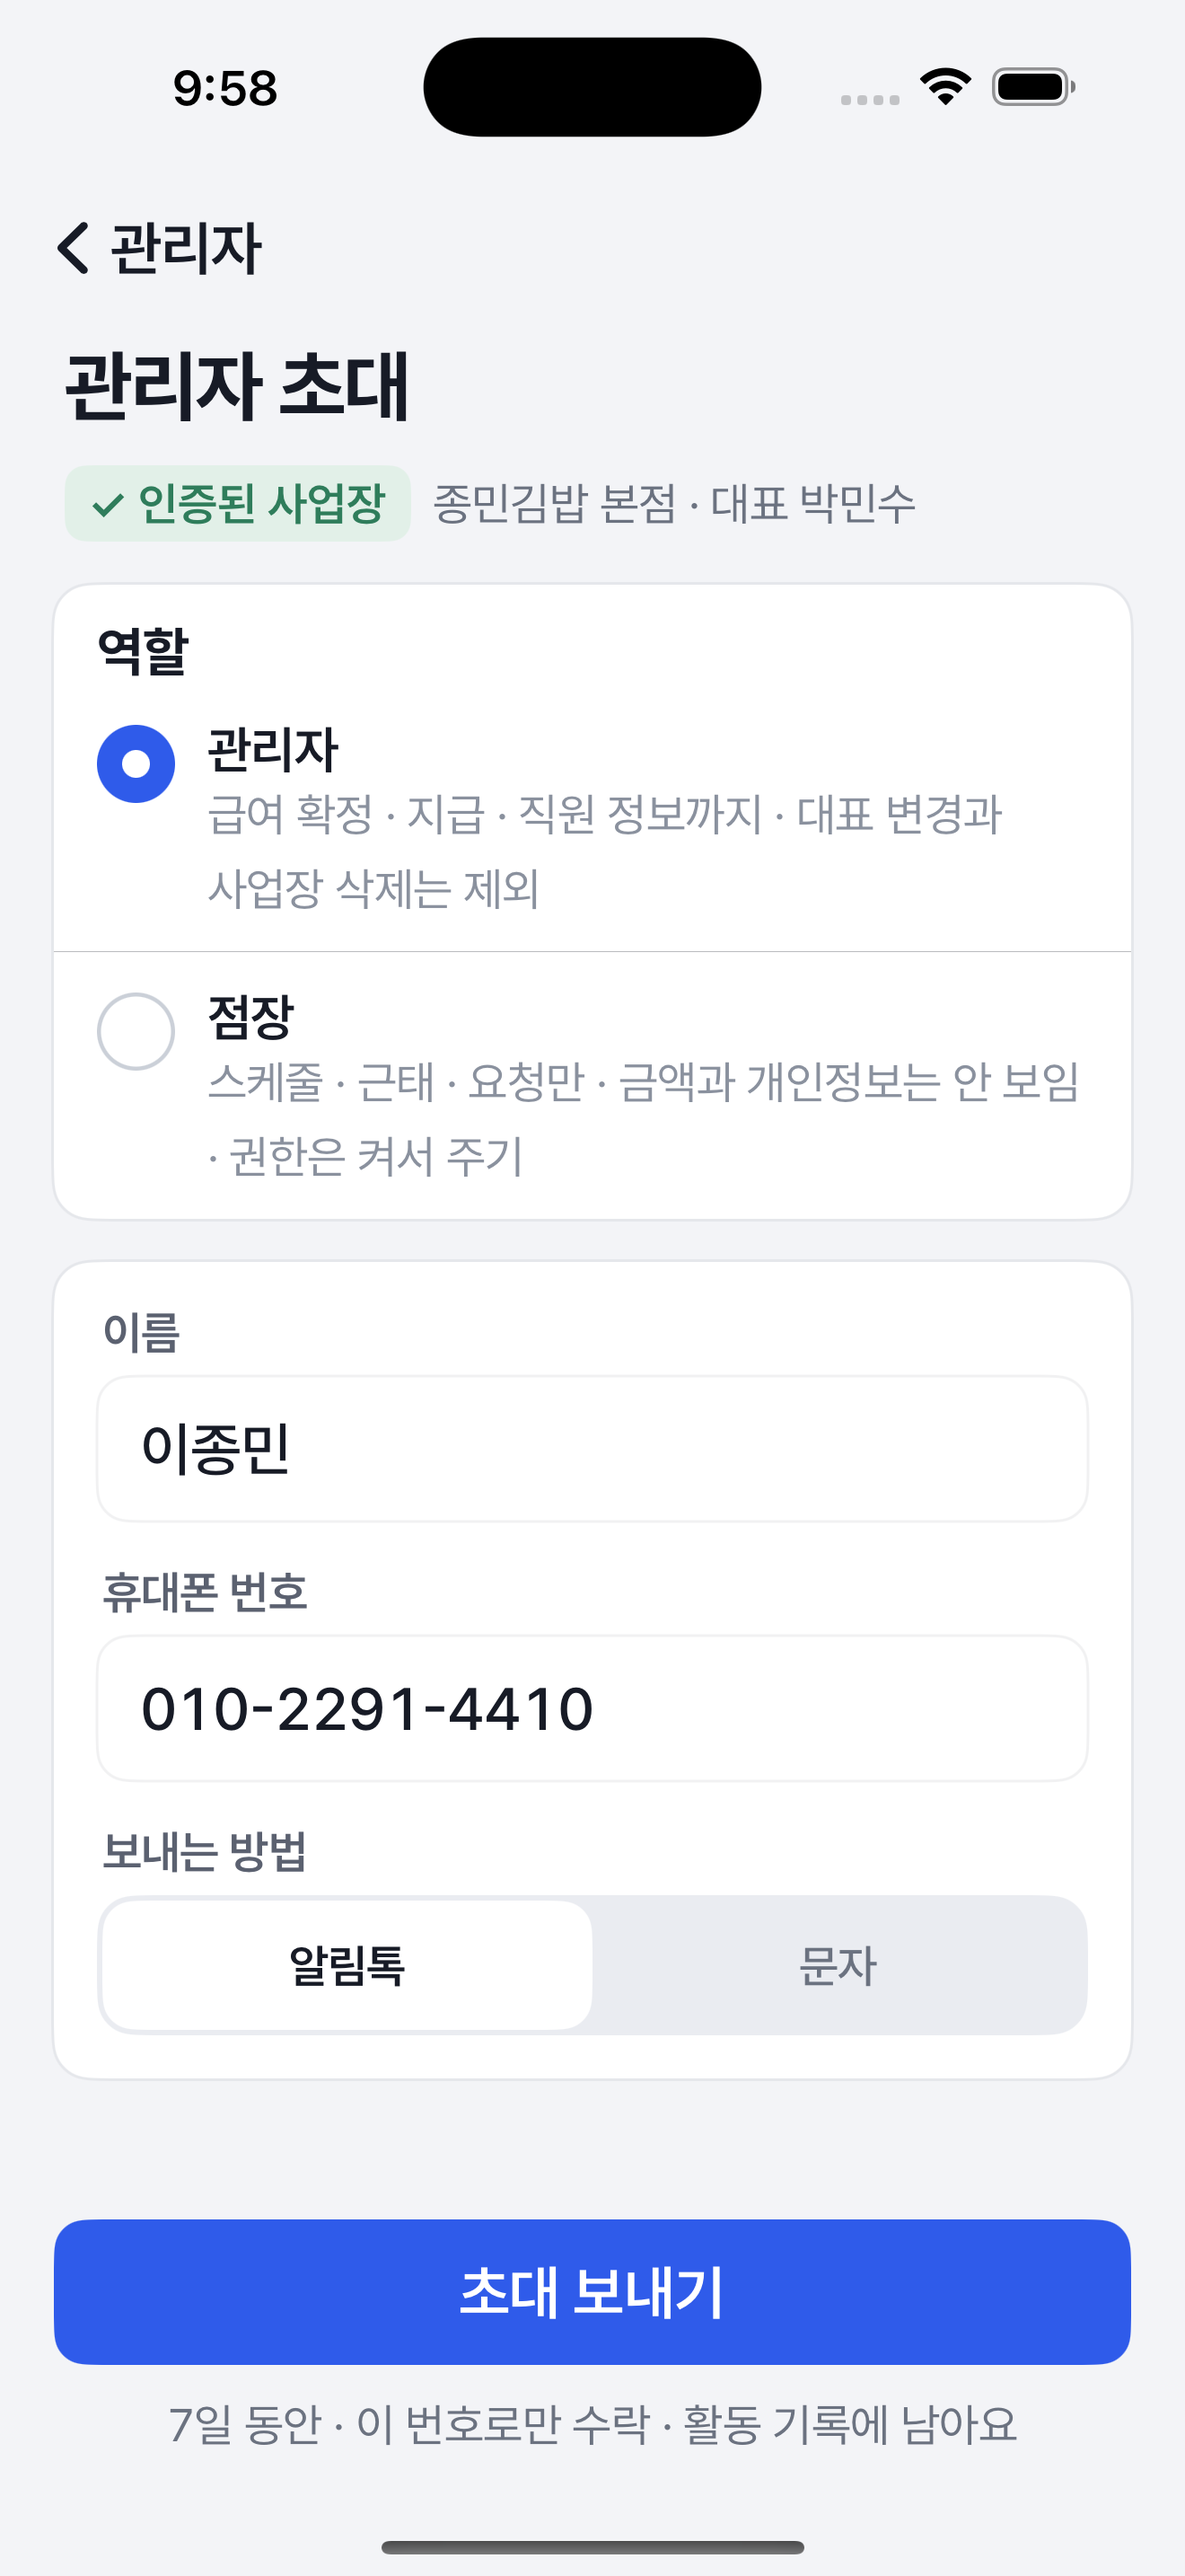
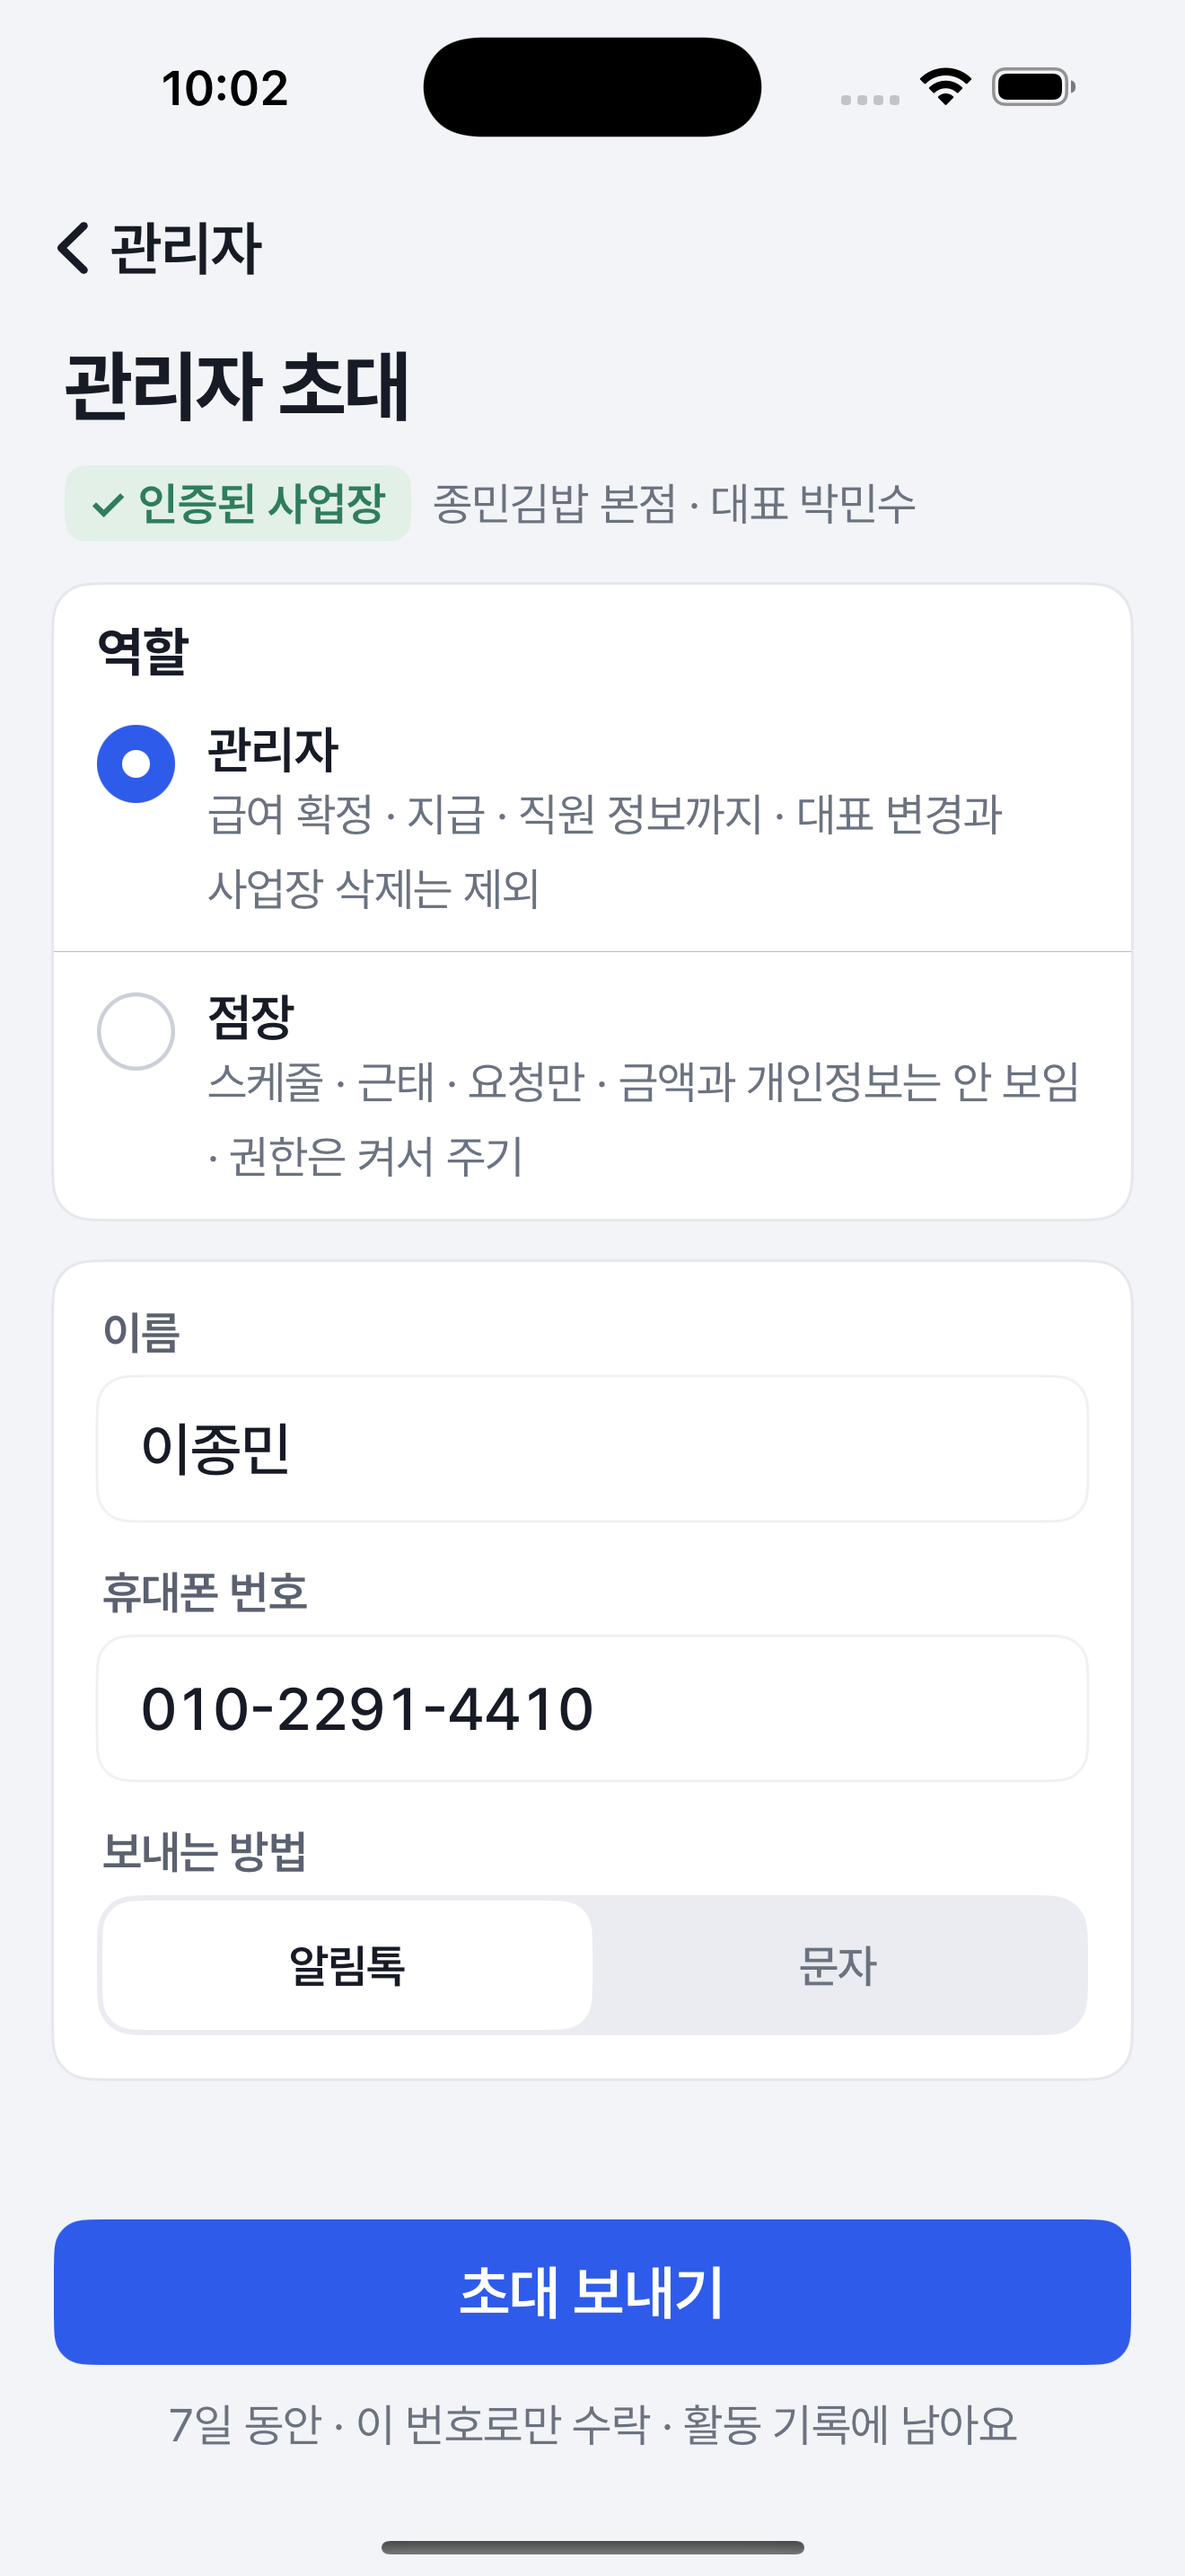
fix(staff): 17h 역할 설명 색 · 남의 이름 · 번호 칸 자동 제안 끔
QA 반영 — 역할 설명을 원문 textSecondary로, 다른 사람을 초대하는 칸이라 내 이름 · 번호 자동 제안(textContentType) 제거.

UI-IOS-17h · #374

diff --git a/Pum/Pum/Features/Staff/ManagerInvite/ManagerInviteView.swift b/Pum/Pum/Features/Staff/ManagerInvite/ManagerInviteView.swift
@@ -123,7 +123,7 @@ struct ManagerInviteView: View {
                 VStack(alignment: .leading, spacing: PumTokens.Space.s2) {
                     Text(role.title).pumText(.callout, weight: .semibold).foregroundStyle(PumColor.textPrimary)
                     Text(state.description(of: role)).pumText(.caption, weight: .regular)
-                        .foregroundStyle(PumColor.textTertiary)
+                        .foregroundStyle(PumColor.textSecondary)
                         .multilineTextAlignment(.leading)
                         .fixedSize(horizontal: false, vertical: true)
                 }
@@ -168,7 +168,6 @@ struct ManagerInviteView: View {
             TextField("", text: text)
                 .focused($focus, equals: field)
                 .keyboardType(field == .phone ? .numberPad : .default)
-                .textContentType(field == .phone ? .telephoneNumber : .name)
                 .pumText(.headline, weight: .medium)
                 .foregroundStyle(PumColor.textPrimary)
                 .autocorrectionDisabled()
